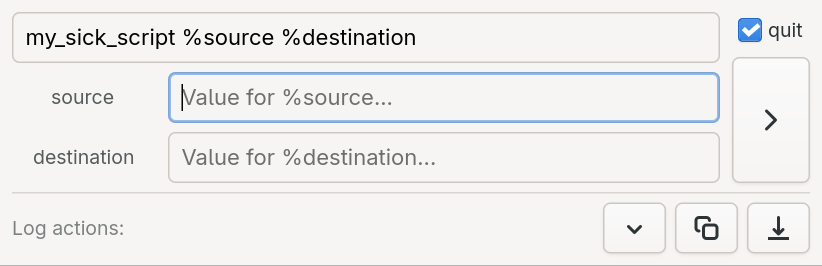
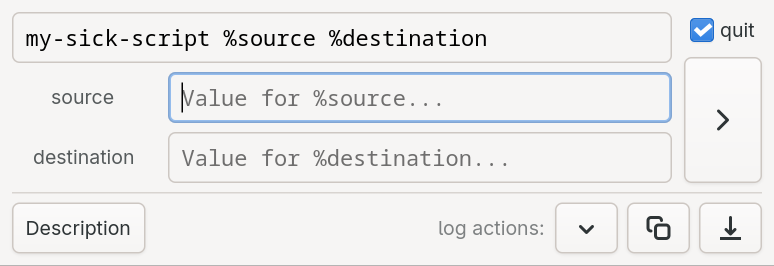
v1.0.0 - feature-complete, now with polkit support for when sudo is called-for.

diff --git a/src/core.rs b/src/core.rs
@@ -37,13 +37,48 @@ pub fn execute(config: crate::storage::Config, sender: std::sync::mpsc::Sender<L
         }
     }
 
-    // 3. Spawn background thread
+    // Spawn background thread
     std::thread::spawn(move || {
-        let child = Command::new("sh")
-            .arg("-c")
+        let pid = std::process::id();
+        let temp_dir = std::env::temp_dir().join(format!("shutton-sudo-{}", pid));
+        
+        let mut setup_ok = false;
+        if std::fs::create_dir_all(&temp_dir).is_ok() {
+            let sudo_script = temp_dir.join("sudo");
+            if std::fs::write(&sudo_script, "#!/bin/sh\nexec pkexec \"$@\"\n").is_ok() {
+                use std::os::unix::fs::PermissionsExt;
+                if let Ok(metadata) = std::fs::metadata(&sudo_script) {
+                    let mut perms = metadata.permissions();
+                    perms.set_mode(0o755);
+                    if std::fs::set_permissions(&sudo_script, perms).is_ok() {
+                        setup_ok = true;
+                    }
+                }
+            }
+        }
+
+        let mut child_cmd = Command::new("sh");
+        child_cmd.arg("-c")
             .arg(format!("{} 2>&1", cmd))
-            .stdout(Stdio::piped())
-            .spawn();
+            .stdout(Stdio::piped());
+
+        if setup_ok {
+            let current_path = std::env::var_os("PATH").unwrap_or_default();
+            let mut new_path = temp_dir.clone().into_os_string();
+            new_path.push(":");
+            new_path.push(current_path);
+            child_cmd.env("PATH", new_path);
+        }
+
+        use std::os::unix::process::CommandExt;
+        unsafe {
+            child_cmd.pre_exec(|| {
+                libc::prctl(libc::PR_SET_PDEATHSIG, libc::SIGTERM);
+                Ok(())
+            });
+        }
+
+        let child = child_cmd.spawn();
 
         match child {
             Ok(mut child) => {
@@ -64,6 +99,10 @@ pub fn execute(config: crate::storage::Config, sender: std::sync::mpsc::Sender<L
                 let _ = sender.send(LogEvent::Line(format!("Error: {}\n", e)));
                 let _ = sender.send(LogEvent::Finished);
             }
+        }
+
+        if setup_ok {
+            let _ = std::fs::remove_dir_all(&temp_dir);
         }
     });
 }

diff --git a/Readme.md b/Readme.md
@@ -8,7 +8,7 @@ I am a visual person. It is easier for me to navigate the digital side of my lif
 
 ![shutton interface](docs/shutton.png)
 
-minimalist Rust app that presents a text input, runs a shell command, and shows/copies/filedrops output. Persists into itself, and can therefore be copy-pasted throughout your system and configured to do many useful things, in-place. Maybe even many copies inside the same folder. Go nuts.
+minimalist *(<1MB)* Rust app that presents a text input, runs a shell command, and shows/copies/filedrops output. Persists into itself, and can therefore be copy-pasted throughout your system and configured to do many useful things, in-place. Maybe even many copies inside the same folder. Go nuts.
 
 ## Usage
 
@@ -52,9 +52,8 @@ then drop the built `shutton` wherever you need it!
 
 ## Version history
 
-future
-- [ ] work with needing sudo, I guess?
-- [ ] figure out what we do if we have a shell script that needs extra input..
+v1.0.0
+- [x] pop policy-kit when encountering sudo requirement
 
 v0.5.0
 - [x] description text field, for more elaborate things